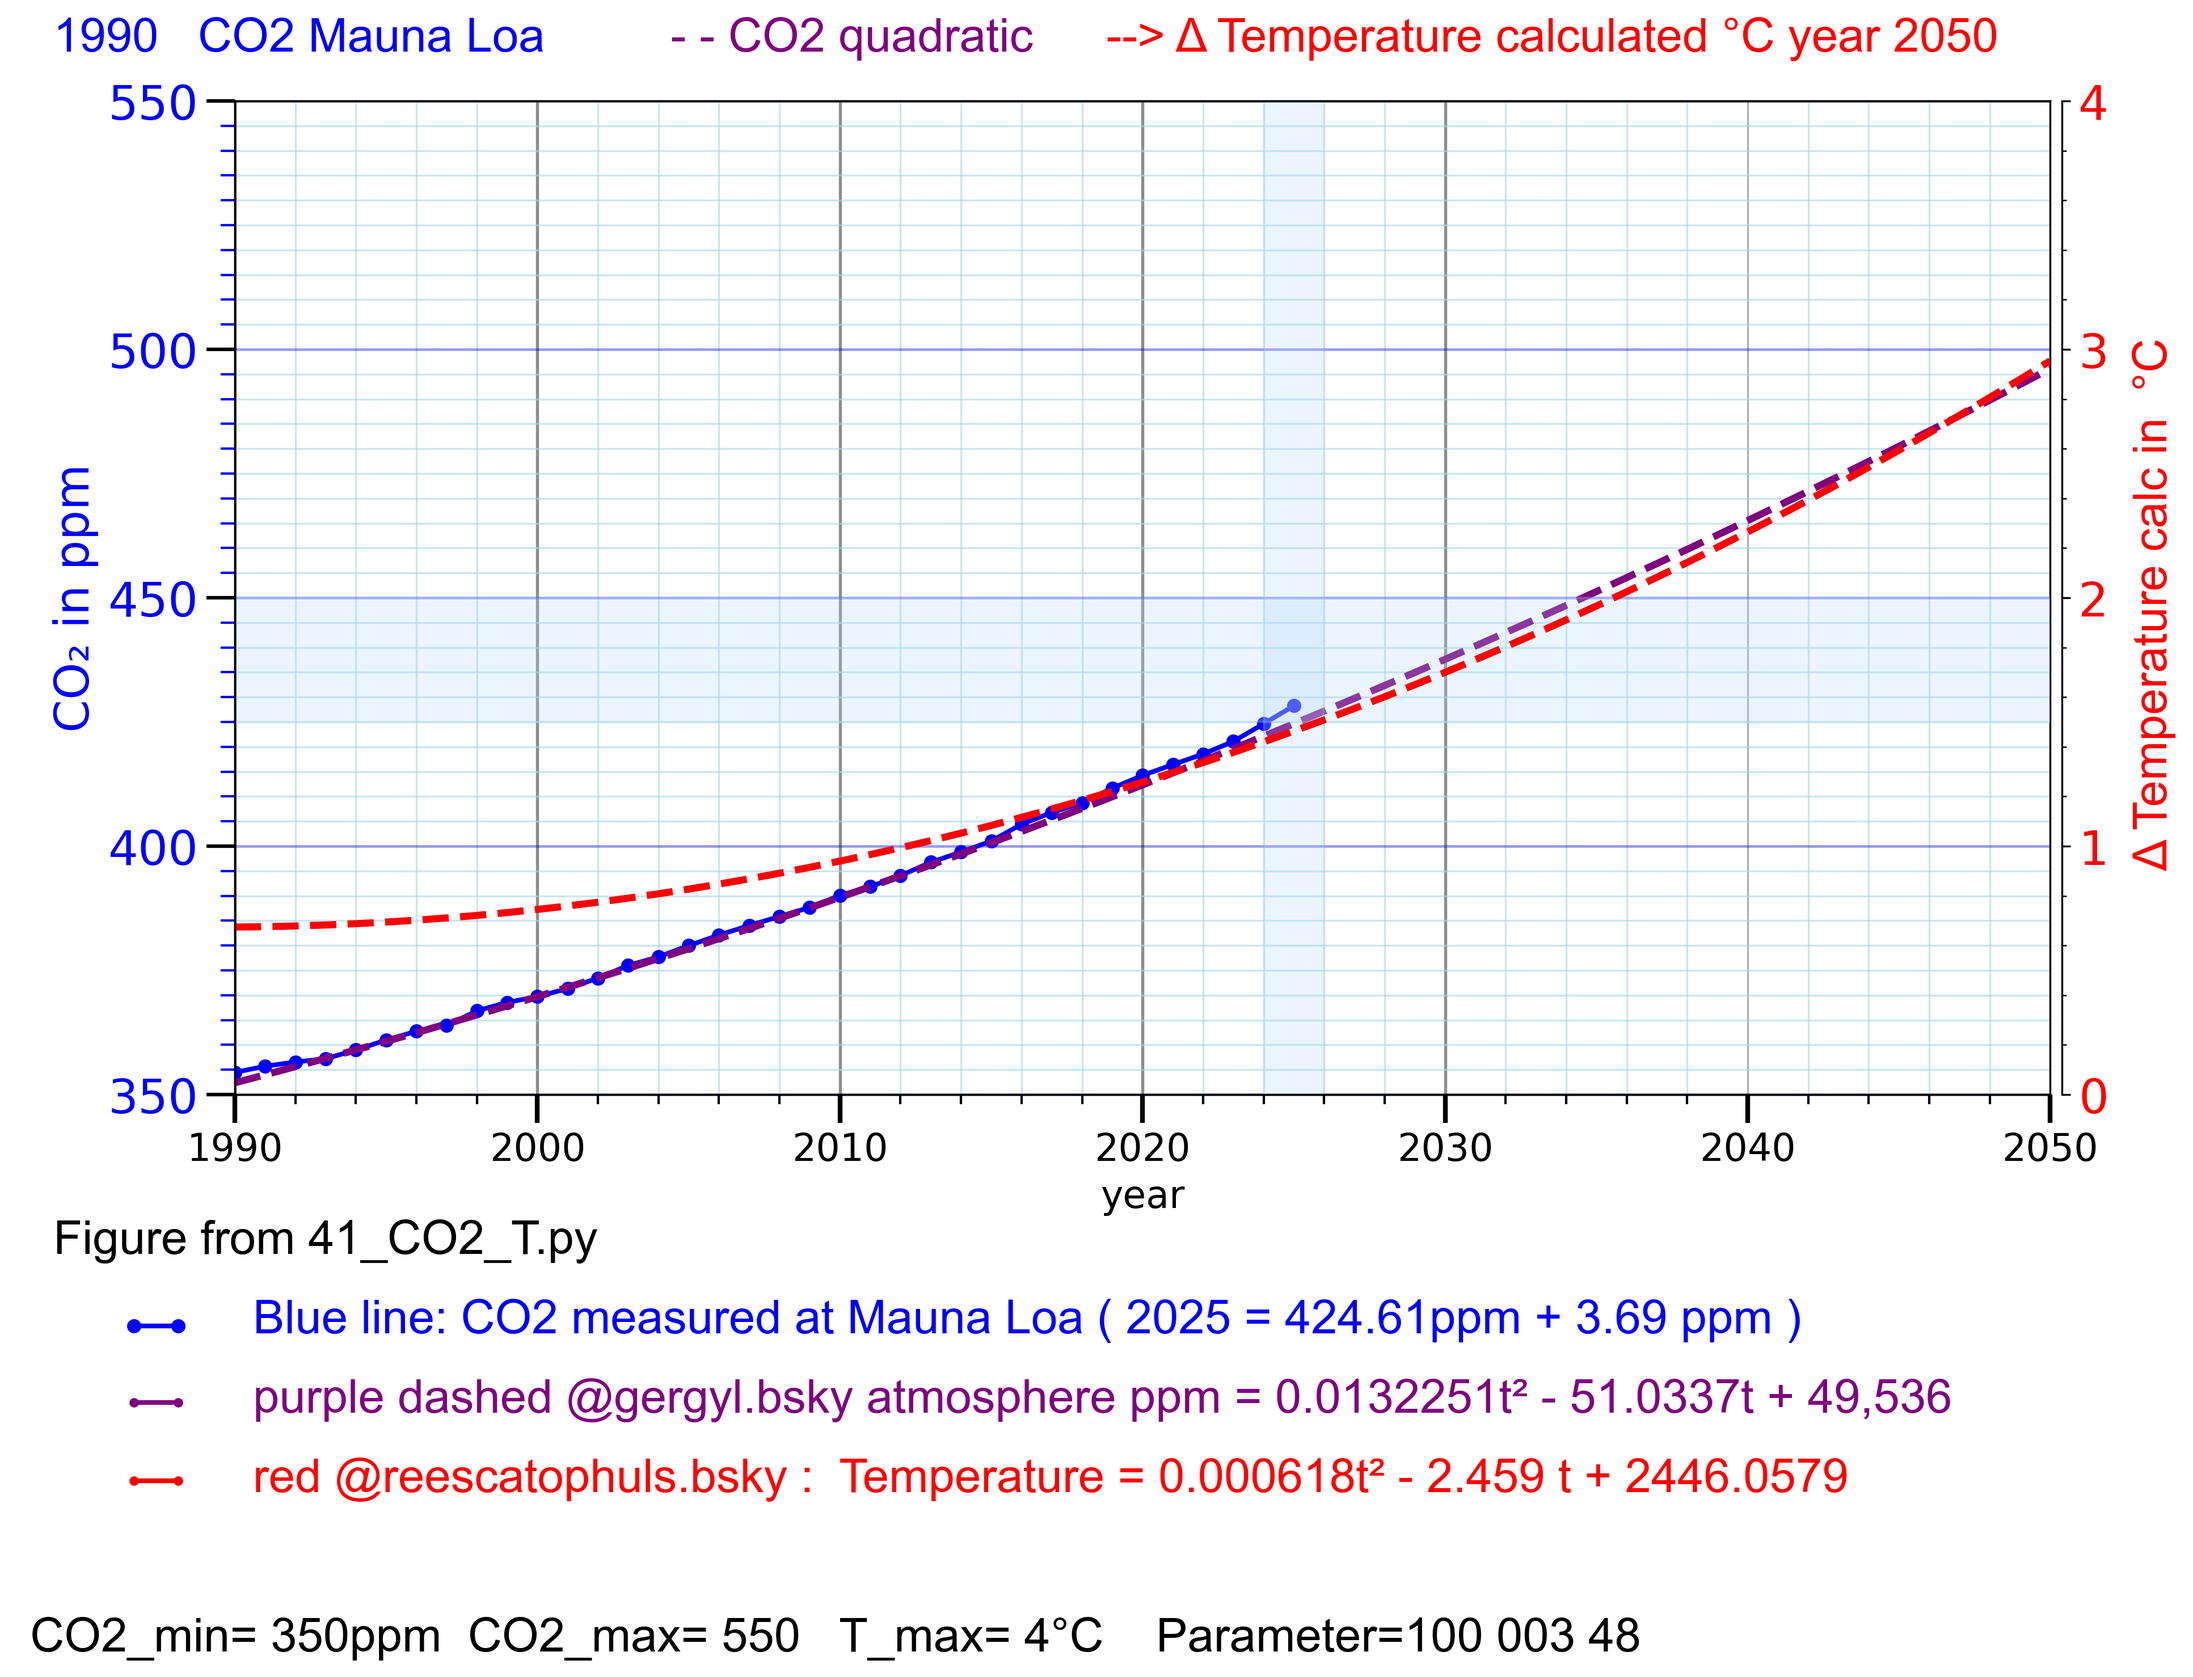
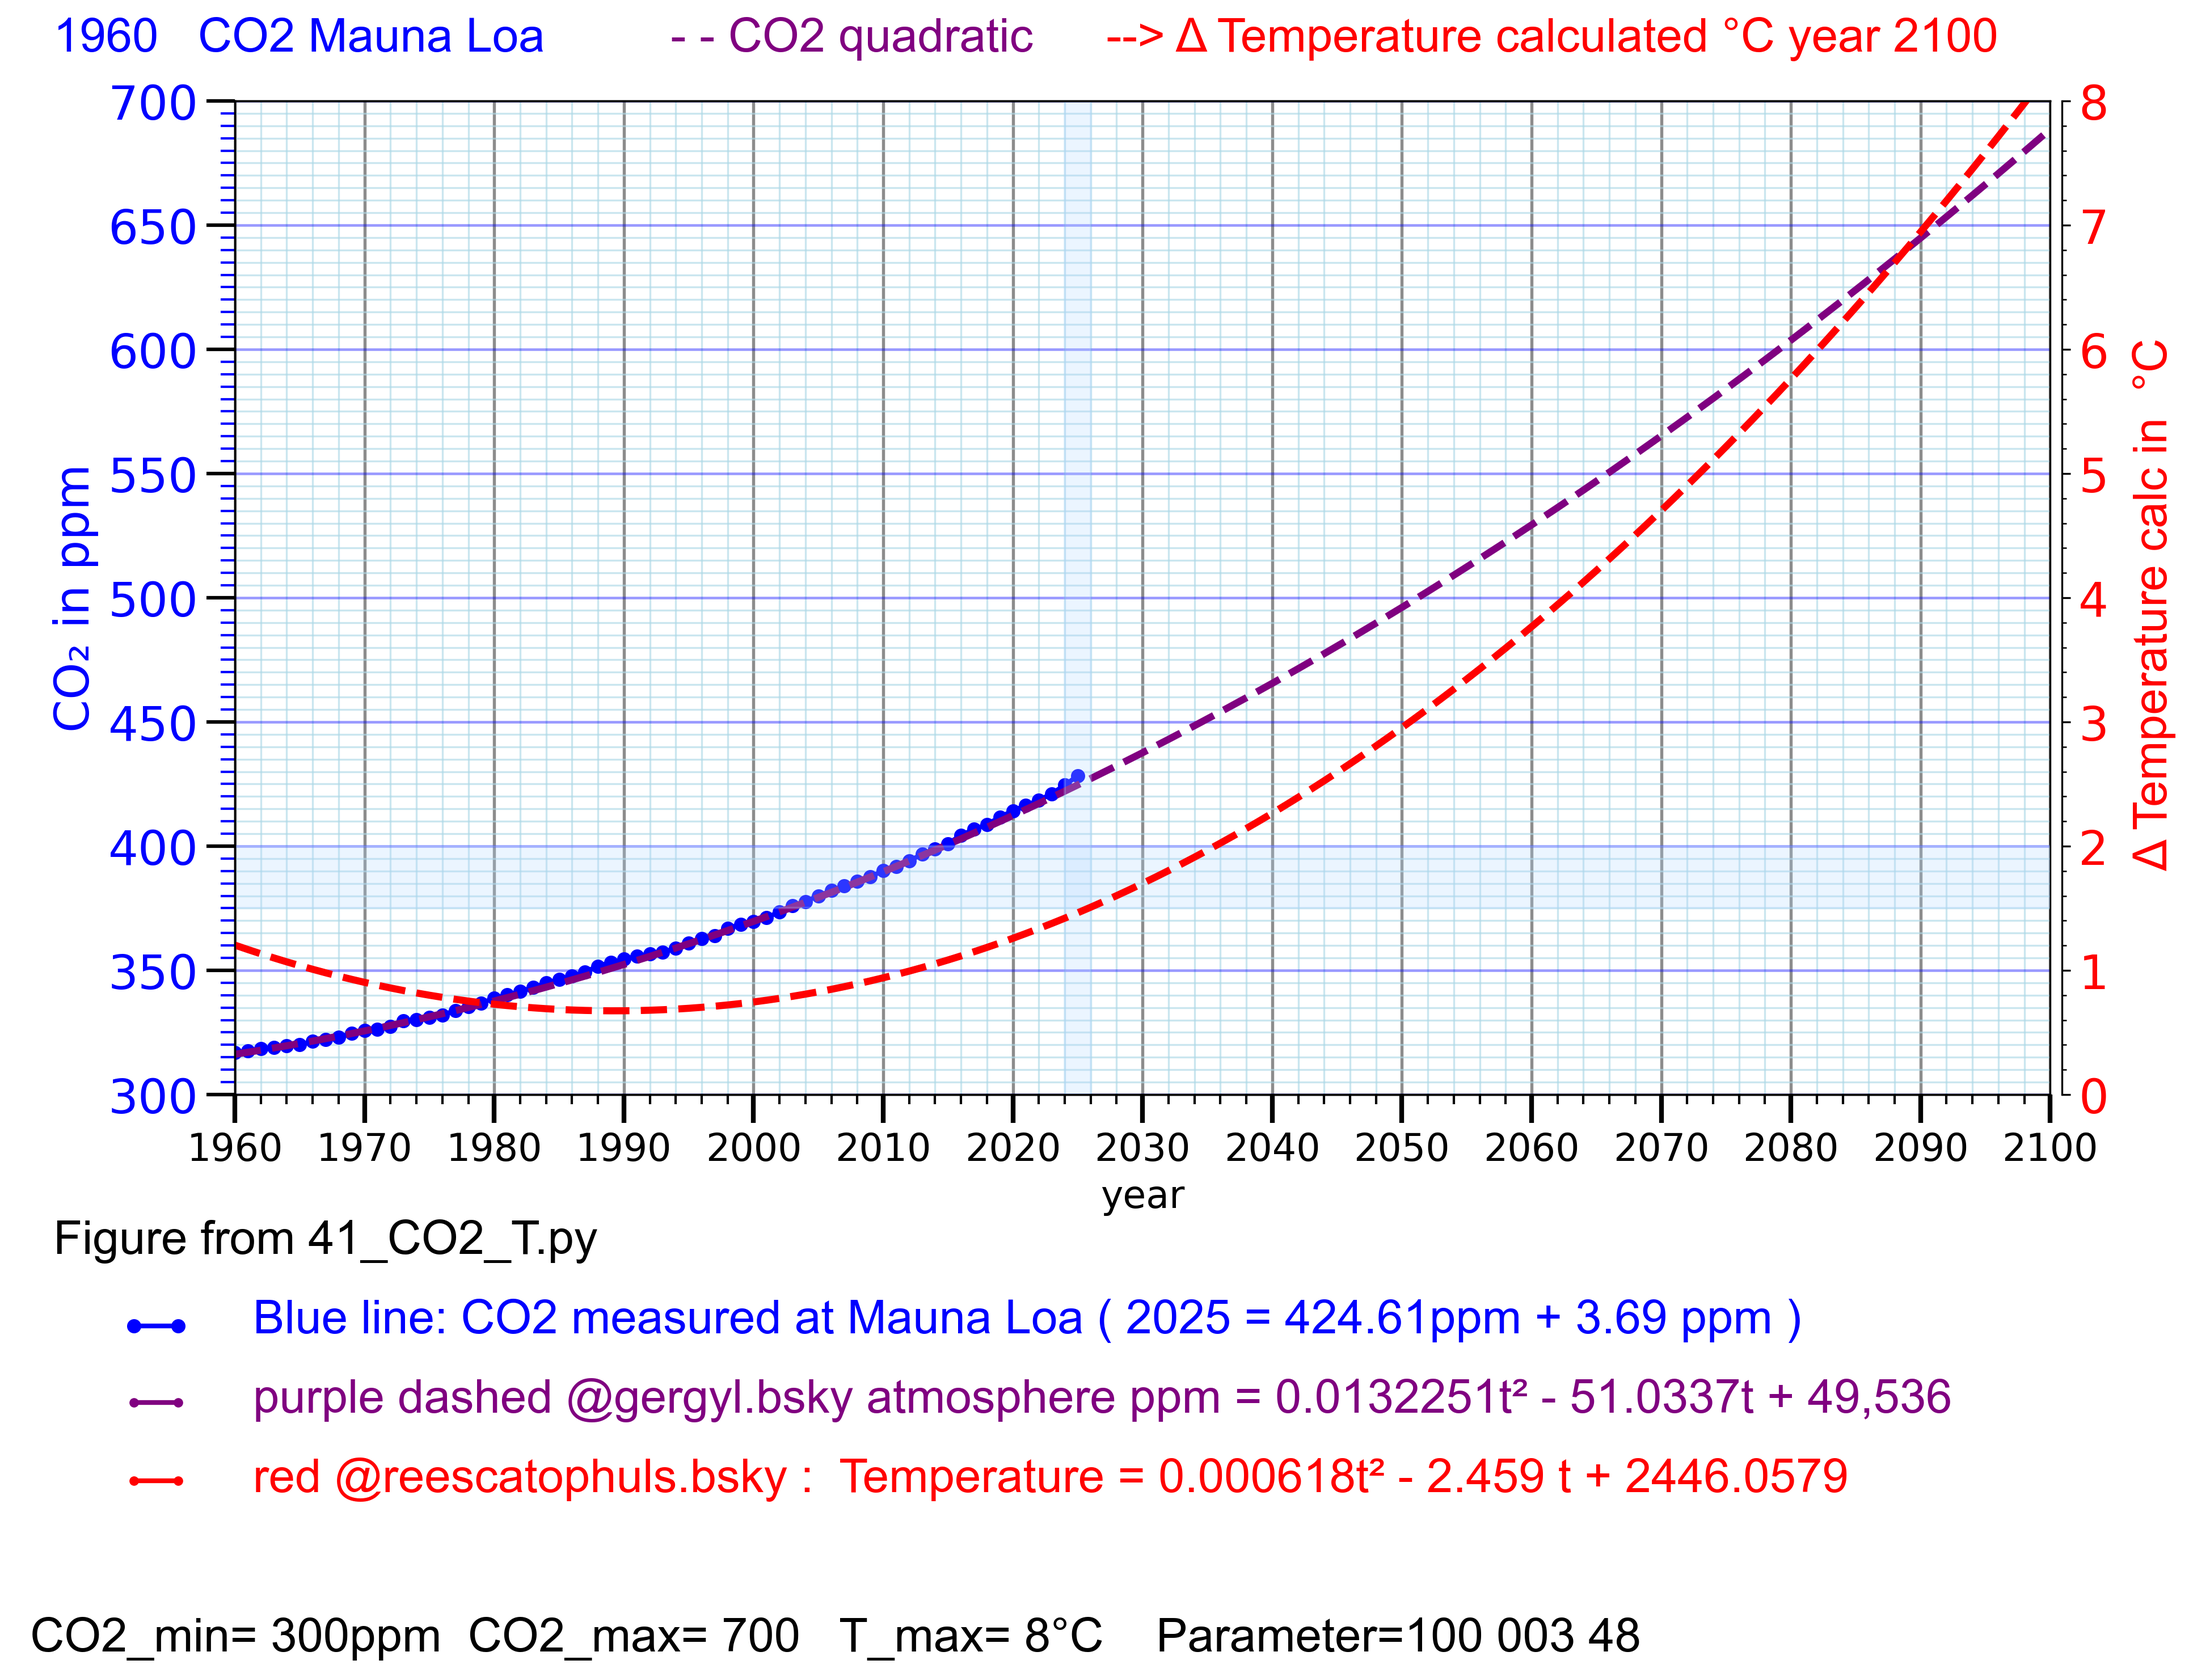
41g1

diff --git a/41_CO2_T.py b/41_CO2_T.py
@@ -1,4 +1,4 @@
-# 41f12_CO2_T.py 
+# 41g1_CO2_T.py 
 # Thomas Boettcher
 # part 0 variables
 # part 1 plot CO2 Mauna Loa
@@ -30,9 +30,10 @@ plot4_CO2_orange2025 = 0 # 3, 4, 0 orange Glen , 1 = 0.013t² - 51t + 49,536 in 
 plot5_Glen_delta_on = 0 #  4, 0 print row 4 # green Glen diff print in line 4
 plot6_Glen_CO2_on = 3 # 3 print in line 3, 0 keine Kurve Glen , 1 = 0.013t² - 51t + 49,536 in rot  
 c6 = "purple" # plot6 color
-plot7_temperature = 4 # 5,4, 0
+plot71_temperature = 4 # 5,4, 0
 c7 = "red" # plot7 color
-parameter8_save_png = 8 # save png
+plot72_AESS_T= 4 # apparent Earth system sensitivity (AESS=7.7°C)
+parameter18_save_png = 8 # save png
 
 # 0.3.1 scale the left Y axis
 y_min = 300 # min value 280
@@ -99,8 +100,8 @@ header_parameter = header_parameter + f"{plot3_delta_CO2_red_bars} " # plot3_del
 header_parameter = header_parameter + f"{plot4_CO2_orange2025}" # plot4_CO2_orange2025 number inside string
 header_parameter = header_parameter + f"{plot5_Glen_delta_on}" # plot5_Glen_delta_on number inside string
 header_parameter = header_parameter + f"{plot6_Glen_CO2_on} " # plot2_population_on number inside string
-header_parameter = header_parameter + f"{plot7_temperature}" 
-header_parameter = header_parameter + f"{parameter8_save_png} " 
+header_parameter = header_parameter + f"{plot71_temperature}" 
+header_parameter = header_parameter + f"{parameter18_save_png} " 
 # header_parameter = f" parameter= {plot1_Mauna_Loa_}" # 1960 number inside string
 
 
@@ -357,7 +358,7 @@ if plot6_Glen_CO2_on > 0:
    ax6.spines.right.set_position(("outward", 60))
 
 # 7 part 1
-# 7.1 plot7_temperature @reescatophuls.bsky.social
+# 7.1 plot71_temperature @reescatophuls.bsky.social
 # https://parisagreementtemperatureindex.com/gwfs-2-quadratic/
 # (0.000617965091650558 * date*date) – (2.45858656778789*date) + 2446.05792853123
 def T_model7(t):
@@ -373,8 +374,8 @@ df7 = pd.DataFrame({
 "Modeled7": T_values
 })
 
-# 7.1.6 plot7_temperature
-if plot7_temperature > 0:
+# 7.1.6 plot71_temperature
+if plot71_temperature > 0:
    ax7 = ax1.twinx()  # twinx(): Shares the same x-axis Adds a new y-axis on the right
    ax7.plot(df7["Year7"], df7["Modeled7"], '--', label="T formula CO2=  K6", color=c7, linewidth=3)
    ax7.tick_params(axis="y", labelcolor=c7)
@@ -386,7 +387,7 @@ if plot7_temperature > 0:
    ax7.set_ylim(y_Tmin, 3 ) # scale
   
 # 7.1.7 plot7 Achse und Beschriftung
-if plot7_temperature > 0:
+if plot71_temperature > 0:
    if plot5_Glen_delta_on > 2:
       ax7.spines.right.set_position(("outward", 50))
    else:
@@ -399,32 +400,36 @@ if plot7_temperature > 0:
    )
    ax7.tick_params(axis="y", labelcolor=c7, labelsize=20)
 
-# 7.1.8 plot7_temperature
-if plot7_temperature > 0:
+# 7.1.8 plot71_temperature
+if plot71_temperature > 0:
    ax7.set_ylim(y_Tmin, y_Tmax) # scale
    # ax7.axhline(1.5, color="red", linestyle="--", linewidth=1.5, alpha=0.7)
    # ax7.axhline(2, color="grey", linestyle="--", linewidth=1.5, alpha=0.7)
    ax7.axhspan(1.5, 2.0, color="#B3D9FF", alpha=0.25, zorder=0) # color="lightblue" 2°C streifen
    ax7.axvspan(2024, 2026, color="#B3D9FF", alpha=0.25, zorder=0) # vertical bar'
 
-"""
-# Load the annual GISTEMP data
-url = "https://datahub.io/core/global-temp/r/annual.csv"
-df = pd.read_csv(url)
+plot72_AESS_T= 4 # apparent Earth system sensitivity (AESS=7.7°C)
+# 7.2 plot72_AESS_T # dT=ECS*log2(C/C0) # T560ppm=AESS*log2(560/280) 
+# AESS=7.7°C  # (Judd 2024)
+# https://www.science.org/doi/10.1126/science.adk3705) 
+# 
+def T_model72(t):
+   return 0.000617965091650558 * t**2 - 2.45858656778789 * t + 2446.05792853123
 
-# Inspect the first rows
-print(df.head())
+# 7.2.2 years scale x axis
+years72 = np.arange(x_anf, x_end + 1 )
+T_72values = T_model72(years72)
 
-# Plot
-plt.figure(figsize=(10,5))
-plt.plot(df["Year"], df["Mean"], marker="o")
-plt.title("Global Annual Temperature Anomalies (GISTEMP)")
-plt.xlabel("Year")
-plt.ylabel("Temperature Anomaly (°C)")
-plt.grid(True)
-plt.show()
-"""
-# 4.x KurveX – Global annual temperature anomaly (°C, relative to baseline)
+# -- 7.1.4. Create DataFrame for convenience
+df72 = pd.DataFrame({
+"Year72": years72,
+"Modeled72": T_72values
+})
+
+
+
+
+# 7.9 KurveX – Global annual temperature anomaly (°C, relative to baseline)
 dataT = {
 1880: -0.16, 1881: -0.08, 1882: -0.10, 1883: -0.17, 1884: -0.28,
 1885: -0.33, 1886: -0.31, 1887: -0.36, 1888: -0.18, 1889: -0.11,
@@ -450,7 +455,7 @@ plt.xlim(x_anf, x_end)
 # 8.2.1 blue headline part
 trs = 20
 # header_black = f"CO2 concentration in the atmosphere {x_anf}" # 1960 number inside string
-if plot7_temperature > 0: # one temperature active
+if plot71_temperature > 0: # one temperature active
    # 8.2.3 plot the headline
    # plt.text(-0.1, 1.05, header, color="blue", fontname="Arial", fontsize=18, transform=plt.gca().transAxes)
    plt.text(-0.1, 1.05,
@@ -663,7 +668,7 @@ elif plot6_Glen_CO2_on == 4: # print in line 3
    # 9.2.5 plot the blue text
    plt.text(tr2x, tr4y, red_text, color=c6, fontname="Arial", fontsize=trs,
    transform=plt.gca().transAxes)
-elif plot7_temperature == 4:
+elif plot71_temperature == 4:
    line7 = Line2D([lr2x1, lr2x2], [lr4y, lr4y], # y from 0 to 1
    transform=fig.transFigure,
    marker="o", markersize=3, color=c7, linewidth=2)
@@ -688,7 +693,7 @@ if plot2_population_on == 5: # 8.5.1 legende world data plot1_Mauna_Loa_
    # 9.5.5 plot the blue text
    plt.text(tr2x, tr5y, blue_text, color="green", fontname="Arial", fontsize=trs,
    transform=plt.gca().transAxes)
-elif plot7_temperature == 5:
+elif plot71_temperature == 5:
    line7 = Line2D([lr2x1, lr2x2], [lr5y, lr5y], # y from 0 to 1
    transform=fig.transFigure,
    marker="o", markersize=3, color=c7, linewidth=2)
@@ -717,11 +722,11 @@ plt.tight_layout()
 plt.show()
 
 # 9.7 save the plot line 6
-if parameter8_save_png > 0:
+if parameter18_save_png > 0:
    filename = ""
    filename2 = os.path.basename(__file__) # "1234test.py"
    # take only the first 5 characters
-   first5 = filename2[:parameter8_save_png]
+   first5 = filename2[:parameter18_save_png]
    filename = filename + first5
    filename = filename + "_"
    filename = filename + header_parameter
@@ -732,6 +737,26 @@ if parameter8_save_png > 0:
    fig.savefig(path, dpi=300, bbox_inches="tight")
 # 9.9 close the plotted figure
 plt.close(fig)
+
+
+"""
+# Load the annual GISTEMP data
+url = "https://datahub.io/core/global-temp/r/annual.csv"
+df = pd.read_csv(url)
+
+# Inspect the first rows
+print(df.head())
+
+# Plot
+plt.figure(figsize=(10,5))
+plt.plot(df["Year"], df["Mean"], marker="o")
+plt.title("Global Annual Temperature Anomalies (GISTEMP)")
+plt.xlabel("Year")
+plt.ylabel("Temperature Anomaly (°C)")
+plt.grid(True)
+plt.show()
+"""
+
 
 # Datenquellen:
 # CO₂: Mauna-Loa/NOAA Jahresmittel (bis 2023), 2024/2025 vorläufig/Schätzung wie zuvor verwendet.
